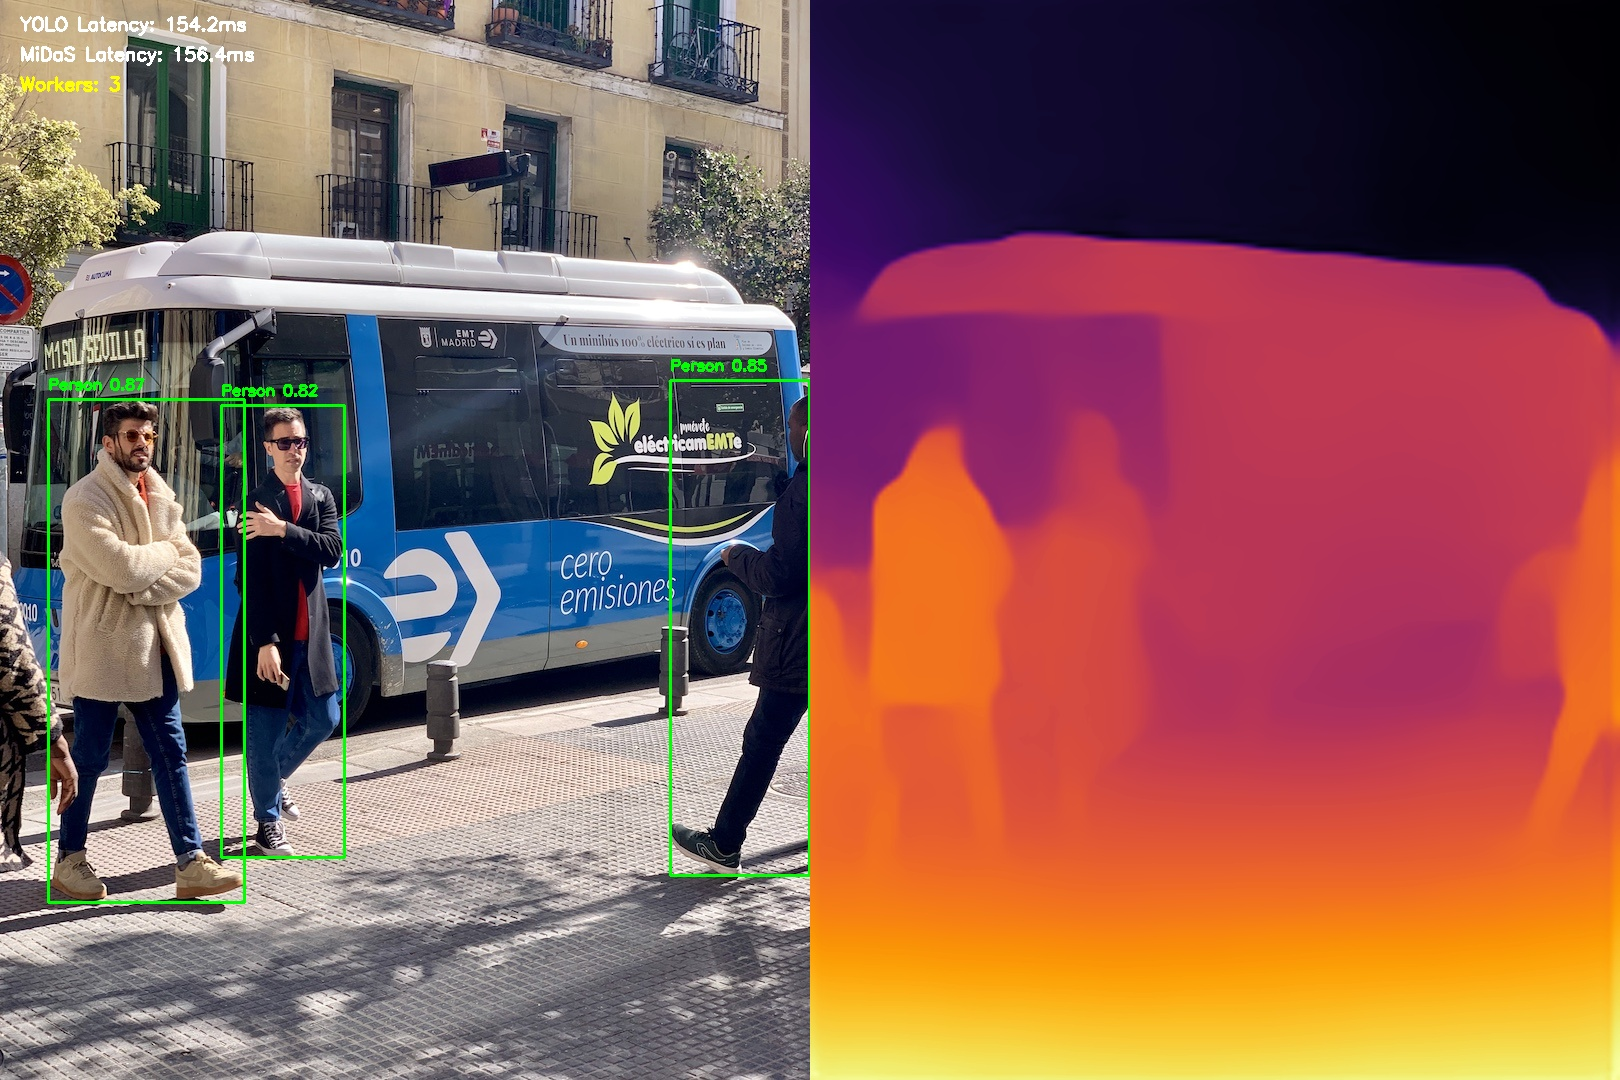
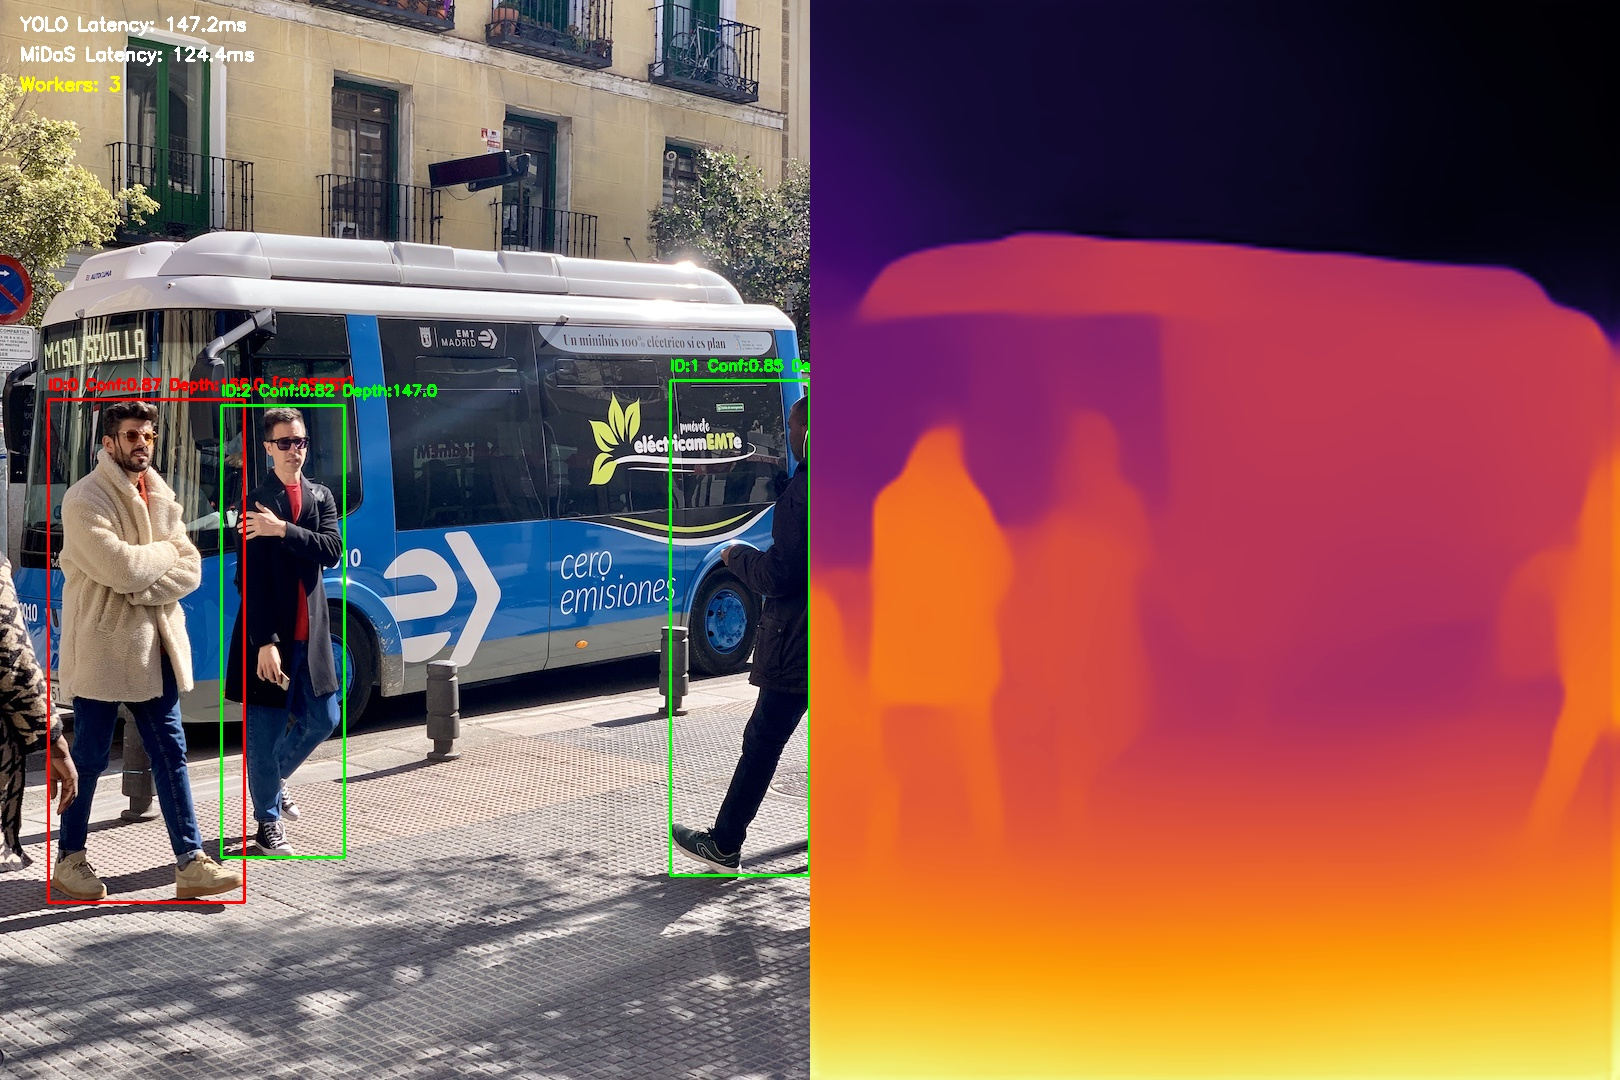
feat: implement proximity module and pipeline verification script for YOLOv8 and MiDaS integration

diff --git a/scripts/verify_pipeline.py b/scripts/verify_pipeline.py
@@ -12,8 +12,6 @@ import numpy as np
 sys.path.append(os.path.abspath(os.path.join(os.path.dirname(__file__), "..")))
 
 from modules.camera import WideAngleCamera
-from modules.detector import WorkerDetector
-from modules.depth import DepthEstimator
 
 logging.basicConfig(level=logging.INFO, format="%(asctime)s - %(levelname)s - %(message)s")
 logger = logging.getLogger(__name__)
@@ -102,6 +100,10 @@ def main():
             fps_target = 30
 
     # Now load detector and depth models
+    from modules.detector import WorkerDetector
+    from modules.depth import DepthEstimator
+    from modules.proximity import ProximityExtractor
+
     detector = WorkerDetector(model_name=model_name, conf_threshold=conf_threshold, iou_threshold=iou_threshold, device=device)
     if not detector.load_model():
         logger.error("Could not load YOLOv8 detector. Exiting.")
@@ -111,6 +113,8 @@ def main():
     if not depth_estimator.load_model():
         logger.error("Could not load MiDaS depth estimator. Exiting.")
         sys.exit(1)
+
+    proximity_extractor = ProximityExtractor()
 
     # Run on static image
     if args.source != "webcam" and not args.source.endswith((".mp4", ".avi", ".mov", ".mkv")):
@@ -142,13 +146,22 @@ def main():
             logger.error("Depth estimation failed.")
             sys.exit(1)
 
-        # Annotate RGB frame with bounding boxes
+        # Extract proximity data and sort by nearness (closest first)
+        workers = proximity_extractor.process_detections(detections, depth_map)
+
+        # Annotate RGB frame with bounding boxes and proximity depth labels
         annotated_frame = frame.copy()
-        for det in detections:
-            bbox = det["bbox"]
-            cv2.rectangle(annotated_frame, (bbox[0], bbox[1]), (bbox[2], bbox[3]), (0, 255, 0), 2)
-            label = f"Person {det['confidence']:.2f}"
-            cv2.putText(annotated_frame, label, (bbox[0], bbox[1] - 10), cv2.FONT_HERSHEY_SIMPLEX, 0.5, (0, 255, 0), 2)
+        for i, worker in enumerate(workers):
+            bbox = worker["bbox"]
+            is_closest = (i == 0) # first in sorted list is closest
+            color = (0, 0, 255) if is_closest else (0, 255, 0) # Red for closest, Green for others
+            tag = " [CLOSEST]" if is_closest else ""
+            
+            cv2.rectangle(annotated_frame, (bbox[0], bbox[1]), (bbox[2], bbox[3]), color, 2)
+            label = f"ID:{worker['id']} Conf:{worker['confidence']:.2f} Depth:{worker['relative_depth']:.1f}{tag}"
+            cv2.putText(annotated_frame, label, (bbox[0], bbox[1] - 10), cv2.FONT_HERSHEY_SIMPLEX, 0.5, color, 2)
+            
+            logger.info(f"Worker ID={worker['id']} | Conf={worker['confidence']:.2f} | Relative-Depth={worker['relative_depth']:.1f} | Box={bbox} | Closest={is_closest}")
 
         # Colorize depth map (Inferno colormap)
         color_depth = cv2.applyColorMap(depth_map, cv2.COLORMAP_INFERNO)
@@ -223,7 +236,7 @@ def main():
 
             # Define variables
             h, w = frame.shape[:2]
-            detections = []
+            workers = []
 
             if is_connected and not (args.source == "webcam" and not ret):
                 # 1. Run worker detection on every frame
@@ -239,13 +252,21 @@ def main():
                     if depth is not None:
                         cached_depth_map = depth
                 
-                # Annotate RGB frame with bounding boxes
-                for det in detections:
-                    bbox = det["bbox"]
-                    cv2.rectangle(frame, (bbox[0], bbox[1]), (bbox[2], bbox[3]), (0, 255, 0), 2)
-                    label = f"Person {det['confidence']:.2f}"
+                # Extract proximity data and sort by nearness (closest first)
+                if cached_depth_map is not None:
+                    workers = proximity_extractor.process_detections(detections, cached_depth_map)
+                
+                # Annotate RGB frame with bounding boxes and proximity depth labels
+                for i, worker in enumerate(workers):
+                    bbox = worker["bbox"]
+                    is_closest = (i == 0) # first in sorted list is closest
+                    color = (0, 0, 255) if is_closest else (0, 255, 0) # Red for closest, Green for others
+                    tag = " [CLOSEST]" if is_closest else ""
+                    
+                    cv2.rectangle(frame, (bbox[0], bbox[1]), (bbox[2], bbox[3]), color, 2)
+                    label = f"ID:{worker['id']} Depth:{worker['relative_depth']:.1f}{tag}"
                     cv2.putText(frame, label, (bbox[0], bbox[1] - 10), 
-                                cv2.FONT_HERSHEY_SIMPLEX, 0.5, (0, 255, 0), 2)
+                                cv2.FONT_HERSHEY_SIMPLEX, 0.5, color, 2)
             else:
                 latency_yolo = 0.0
                 latency_midas = 0.0
@@ -273,7 +294,7 @@ def main():
             cv2.putText(stacked, f"Pipeline FPS: {fps:.1f}", (20, 60), cv2.FONT_HERSHEY_SIMPLEX, 0.6, (255, 255, 255), 2)
             cv2.putText(stacked, f"YOLO Latency: {latency_yolo:.1f}ms", (20, 90), cv2.FONT_HERSHEY_SIMPLEX, 0.6, (255, 255, 255), 2)
             cv2.putText(stacked, f"MiDaS Latency: {latency_midas:.1f}ms", (20, 120), cv2.FONT_HERSHEY_SIMPLEX, 0.6, (255, 255, 255), 2)
-            cv2.putText(stacked, f"Workers: {len(detections)}", (20, 150), cv2.FONT_HERSHEY_SIMPLEX, 0.6, (0, 255, 255), 2)
+            cv2.putText(stacked, f"Workers: {len(workers)}", (20, 150), cv2.FONT_HERSHEY_SIMPLEX, 0.6, (0, 255, 255), 2)
             cv2.putText(stacked, f"Decoupling Rate: {args.depth_freq}x", (20, 180), cv2.FONT_HERSHEY_SIMPLEX, 0.6, (255, 255, 255), 2)
             cv2.putText(stacked, "Press 'f' to toggle Fullscreen, 'q' to Quit", (20, sh - 20), cv2.FONT_HERSHEY_SIMPLEX, 0.5, (255, 255, 255), 1)
 
@@ -282,7 +303,8 @@ def main():
             if args.no_gui:
                 # Headless logging
                 if is_connected:
-                    logger.info(f"Pipeline Running - Workers: {len(detections)} | FPS: {fps:.1f} | YOLO: {latency_yolo:.1f}ms | MiDaS: {latency_midas:.1f}ms")
+                    closest_text = f" | Closest Worker: ID={workers[0]['id']} Depth={workers[0]['relative_depth']:.1f}" if workers else ""
+                    logger.info(f"Pipeline Running - Workers: {len(workers)} | FPS: {fps:.1f} | YOLO: {latency_yolo:.1f}ms | MiDaS: {latency_midas:.1f}ms{closest_text}")
                 time.sleep(0.01)
             else:
                 cv2.imshow(window_name, stacked)

diff --git a/modules/proximity.py b/modules/proximity.py
@@ -1,0 +1,104 @@
+import time
+import numpy as np
+import logging
+
+logger = logging.getLogger(__name__)
+
+class ProximityExtractor:
+    def __init__(self, min_box_size=20, roi_horizontal=(0.3, 0.7), roi_vertical=(0.4, 0.9)):
+        """
+        Args:
+            min_box_size (int): Minimum width or height of bounding box to process.
+            roi_horizontal (tuple): Horizontal crop ratio (start, end) relative to box width.
+            roi_vertical (tuple): Vertical crop ratio (start, end) relative to box height.
+        """
+        self.min_box_size = min_box_size
+        self.roi_horizontal = roi_horizontal
+        self.roi_vertical = roi_vertical
+
+    def extract_depth(self, bbox, depth_map):
+        """
+        Extracts the median relative-depth value from the specified ROI of the bounding box.
+        """
+        h_map, w_map = depth_map.shape[:2]
+        xmin, ymin, xmax, ymax = bbox
+
+        # Protection: Clip bounding box coordinates to image boundaries
+        xmin = max(0, min(xmin, w_map - 1))
+        xmax = max(0, min(xmax, w_map - 1))
+        ymin = max(0, min(ymin, h_map - 1))
+        ymax = max(0, min(ymax, h_map - 1))
+
+        box_width = xmax - xmin
+        box_height = ymax - ymin
+
+        # Protection: Ignore extremely small boxes
+        if box_width < self.min_box_size or box_height < self.min_box_size:
+            logger.debug(f"Bounding box {bbox} too small (width={box_width}, height={box_height}). Skipping depth extraction.")
+            return 0.0
+
+        # Calculate ROI coordinates inside the bounding box
+        roi_xmin = int(xmin + self.roi_horizontal[0] * box_width)
+        roi_xmax = int(xmin + self.roi_horizontal[1] * box_width)
+        roi_ymin = int(ymin + self.roi_vertical[0] * box_height)
+        roi_ymax = int(ymin + self.roi_vertical[1] * box_height)
+
+        # Enforce boundaries for ROI
+        roi_xmin = max(0, min(roi_xmin, w_map - 1))
+        roi_xmax = max(roi_xmin + 1, min(roi_xmax, w_map - 1))
+        roi_ymin = max(0, min(roi_ymin, h_map - 1))
+        roi_ymax = max(roi_ymin + 1, min(roi_ymax, h_map - 1))
+
+        # Crop depth map slice
+        depth_slice = depth_map[roi_ymin:roi_ymax, roi_xmin:roi_xmax]
+
+        if depth_slice.size == 0:
+            return 0.0
+
+        # Protection: filter out invalid pixels (e.g. 0 values)
+        valid_pixels = depth_slice[depth_slice > 0]
+        
+        if valid_pixels.size == 0:
+            # Fall back to entire slice if all pixels are 0
+            valid_pixels = depth_slice
+
+        # Calculate stable median relative-depth value
+        median_depth = float(np.median(valid_pixels))
+        return median_depth
+
+    def process_detections(self, detections, depth_map):
+        """
+        Extracts proximity for all workers, sorts them by nearness, and returns structured data.
+        
+        Args:
+            detections (list): Bounding boxes returned by WorkerDetector.
+            depth_map (np.ndarray): Aligned relative depth map from DepthEstimator.
+            
+        Returns:
+            list: List of dictionaries representing workers sorted by proximity (closest first).
+        """
+        if depth_map is None:
+            logger.warning("Depth map is empty. Cannot extract proximity.")
+            return []
+
+        timestamp = time.time()
+        workers = []
+
+        for idx, det in enumerate(detections):
+            bbox = det["bbox"]
+            median_depth = self.extract_depth(bbox, depth_map)
+            
+            workers.append({
+                "id": idx,  # temporary index for this frame
+                "confidence": det["confidence"],
+                "bbox": bbox,
+                "dimensions": det["dimensions"],
+                "center": det["center"],
+                "bottom_center": det["bottom_center"],
+                "relative_depth": median_depth,
+                "timestamp": timestamp
+            })
+
+        # Sort workers: highest depth value first (brighter in MiDaS depth map = closer to camera)
+        workers.sort(key=lambda w: w["relative_depth"], reverse=True)
+        return workers
